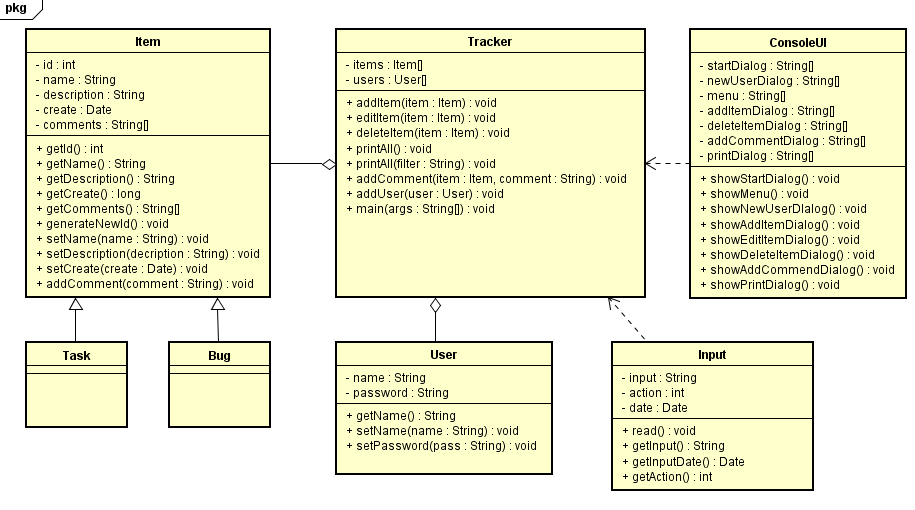
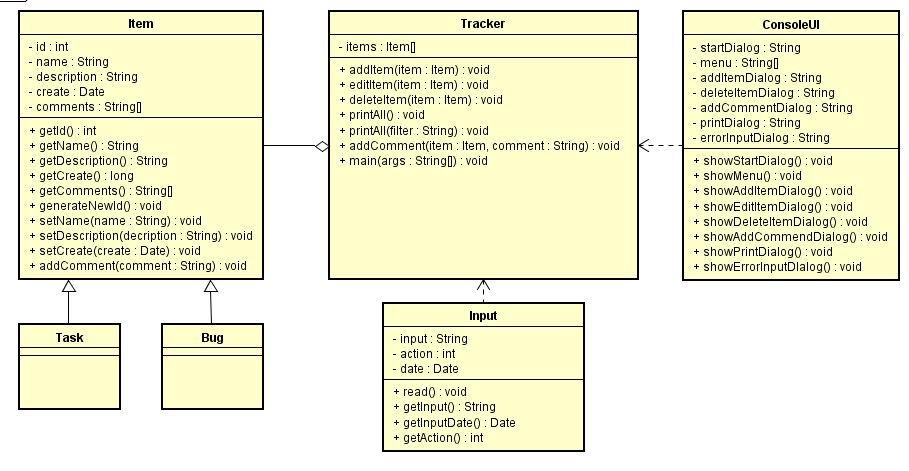
04.11.2016 added Diagrams (part_2 lesson_1)

Changed region(s): [[0.0, 0.0, 1.0, 0.9809]]

diff --git a/part_2/lesson_1/README.md b/part_2/lesson_1/README.md
@@ -1,7 +1,5 @@
 # lesson_1
-Класс Tracker - инициализируемый класс, содержит список пользователей, список тикетов(заявок) и методы для ряботы с ними.
-
-Класс User - класс для создания объектов Пользователей.
+Класс Tracker - инициализируемый класс, содержит список тикетов(заявок) и методы для работы с ними.
 
 Task - наследуемый класс от Item для создания задач.
 
